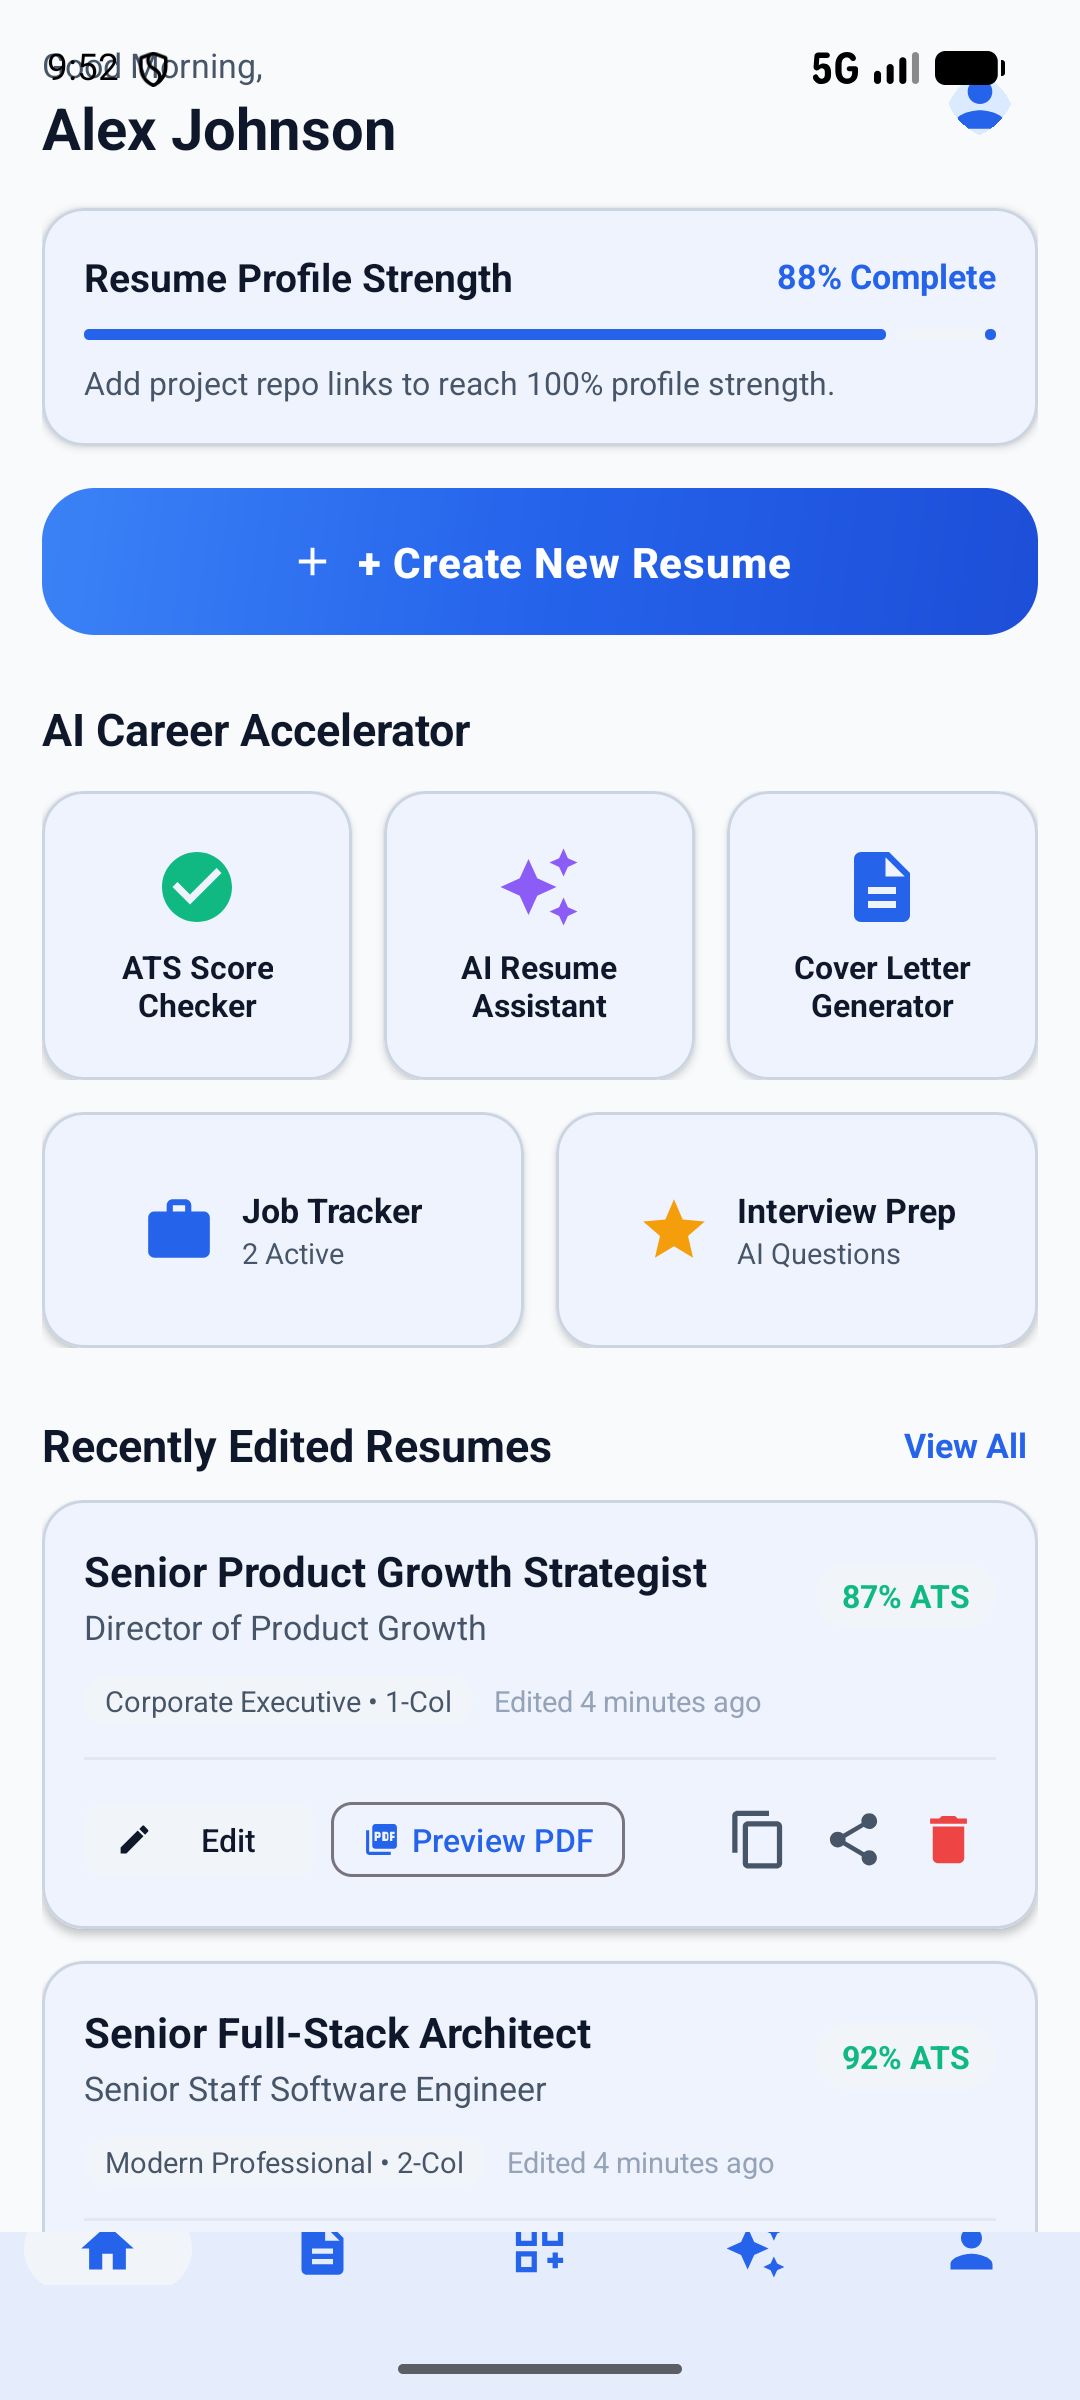
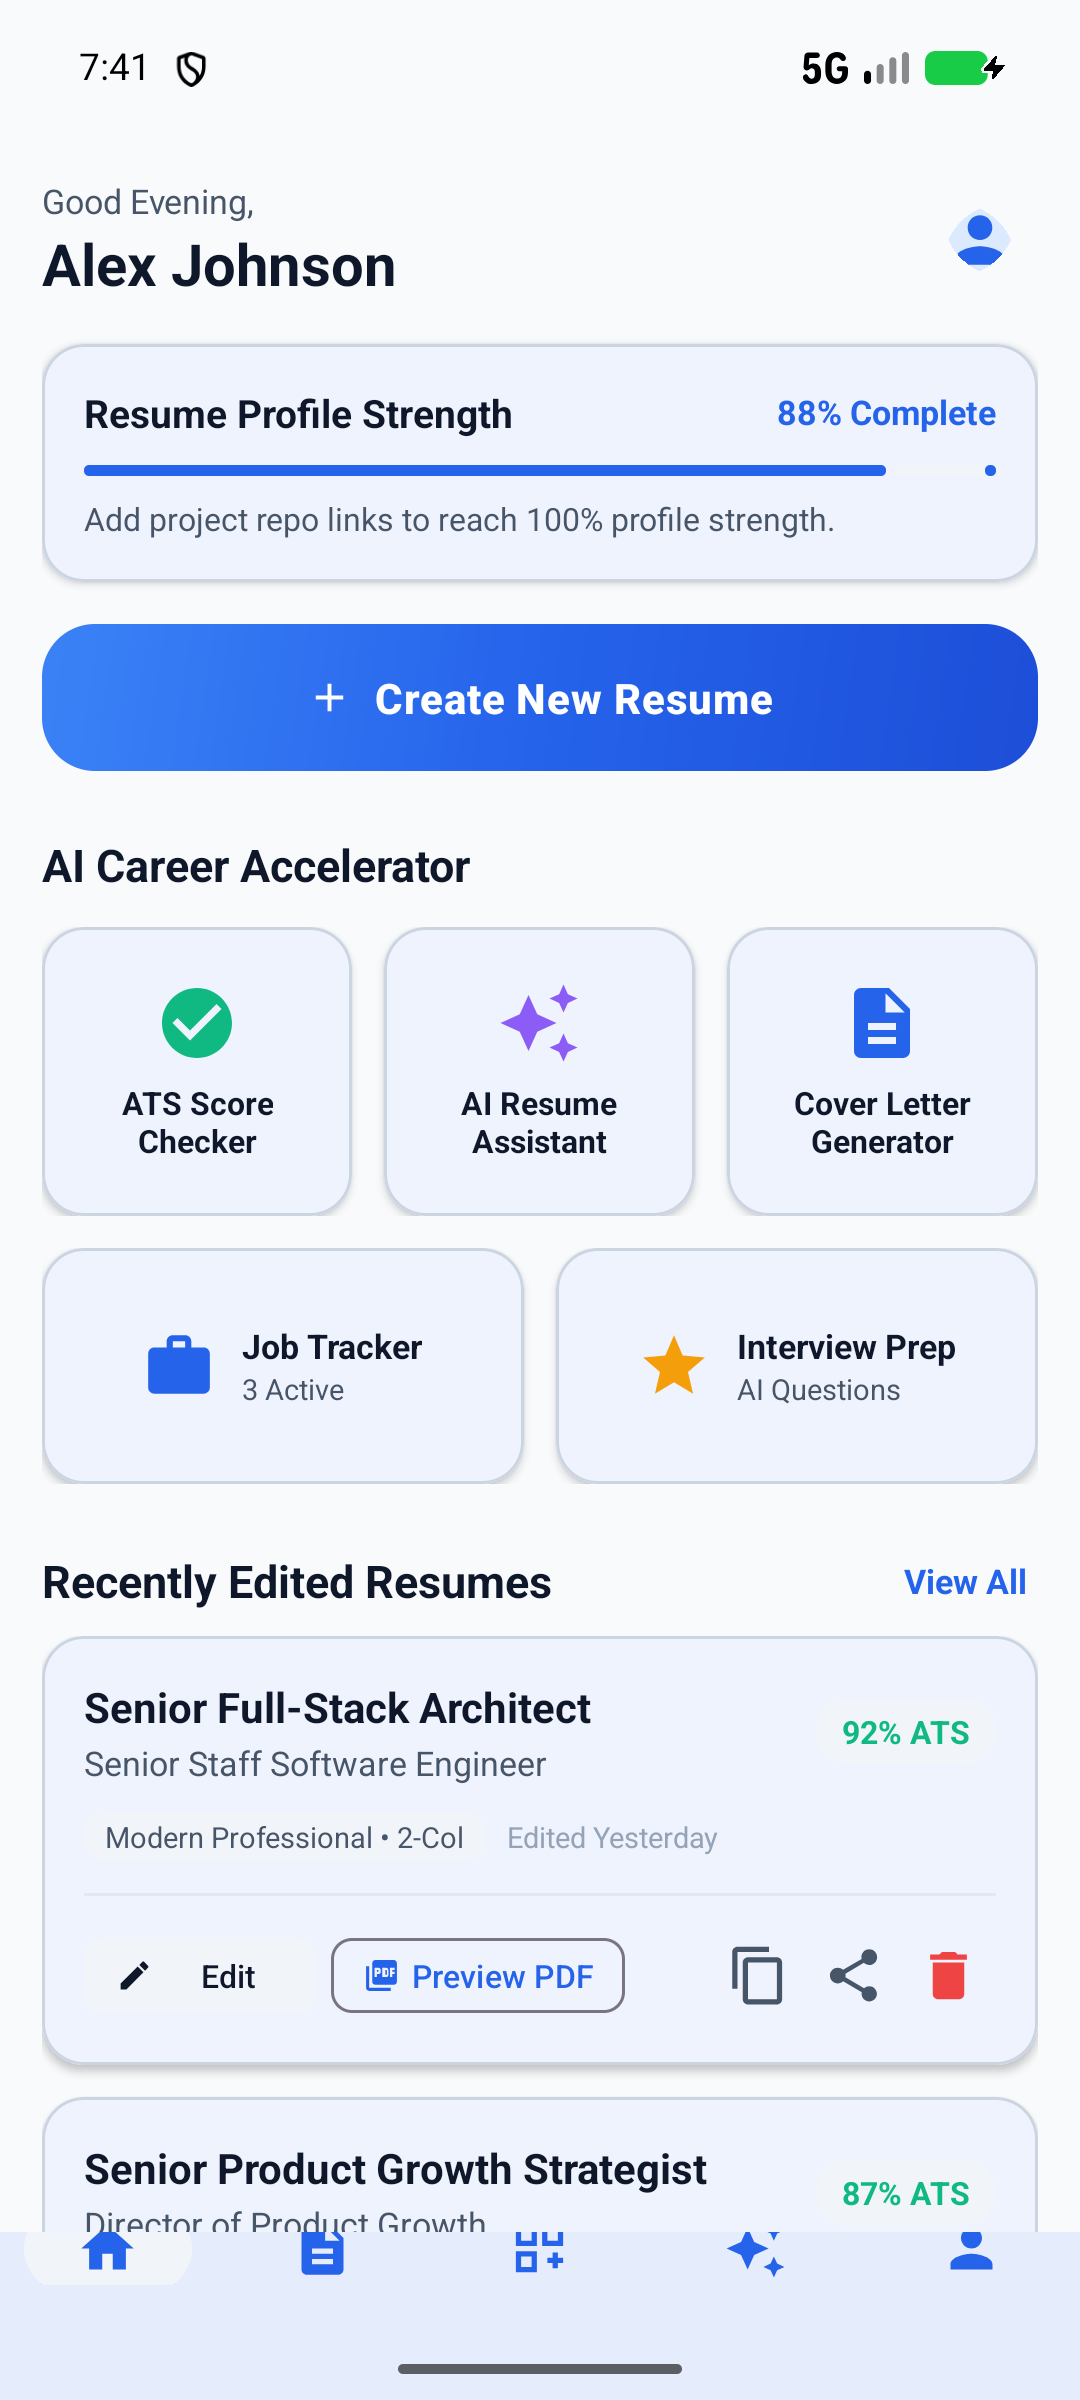
fix: resolve ATS analyzer infinite toast loop and system bar insets overlap

diff --git a/app/src/main/java/com/pynexia/resumebuilder/ui/ats/AtsAnalyzerActivity.kt b/app/src/main/java/com/pynexia/resumebuilder/ui/ats/AtsAnalyzerActivity.kt
@@ -19,6 +19,7 @@ import com.pynexia.resumebuilder.data.model.ResumeData
 import com.pynexia.resumebuilder.data.model.ResumeEntity
 import com.pynexia.resumebuilder.databinding.ActivityAtsAnalyzerBinding
 import com.pynexia.resumebuilder.ui.resumes.ResumeViewModel
+import com.pynexia.resumebuilder.utils.applySystemBarsPadding
 import kotlinx.coroutines.launch
 
 class AtsAnalyzerActivity : AppCompatActivity() {
@@ -30,11 +31,14 @@ class AtsAnalyzerActivity : AppCompatActivity() {
 
     private var resumeList: List<ResumeEntity> = emptyList()
     private var selectedResume: ResumeEntity? = null
+    private var isInitialized = false
 
     override fun onCreate(savedInstanceState: Bundle?) {
         super.onCreate(savedInstanceState)
         binding = ActivityAtsAnalyzerBinding.inflate(layoutInflater)
         setContentView(binding.root)
+
+        binding.root.applySystemBarsPadding(applyTop = true, applyBottom = true)
 
         binding.toolbarAts.setNavigationOnClickListener { finish() }
 
@@ -44,42 +48,54 @@ class AtsAnalyzerActivity : AppCompatActivity() {
 
     private fun loadResumes() {
         viewModel.allActiveResumes.observe(this) { list ->
+            if (list.isEmpty()) return@observe
+            val listChanged = resumeList.map { it.id } != list.map { it.id }
             resumeList = list
-            if (list.isNotEmpty()) {
+
+            if (!isInitialized || listChanged) {
+                isInitialized = true
                 val titles = list.map { "${it.title} (${it.targetJobTitle})" }
                 val spinnerAdapter = ArrayAdapter(this, android.R.layout.simple_spinner_dropdown_item, titles)
                 binding.spinnerResumes.adapter = spinnerAdapter
                 selectedResume = list[0]
 
-                binding.spinnerResumes.onItemSelectedListener = object : AdapterView.OnItemSelectedListener {
-                    override fun onItemSelected(parent: AdapterView<*>?, view: View?, position: Int, id: Long) {
-                        selectedResume = list[position]
-                    }
-                    override fun onNothingSelected(parent: AdapterView<*>?) {}
-                }
-
-                // Automatically run analysis on first resume
-                runAnalysis()
+                // Run initial analysis without triggering DB update recursion
+                runAnalysis(saveToDb = false)
             }
         }
     }
 
     private fun setupListeners() {
+        binding.spinnerResumes.onItemSelectedListener = object : AdapterView.OnItemSelectedListener {
+            override fun onItemSelected(parent: AdapterView<*>?, view: View?, position: Int, id: Long) {
+                if (position in resumeList.indices) {
+                    val candidate = resumeList[position]
+                    if (selectedResume?.id != candidate.id) {
+                        selectedResume = candidate
+                        runAnalysis(saveToDb = false)
+                    }
+                }
+            }
+            override fun onNothingSelected(parent: AdapterView<*>?) {}
+        }
+
         binding.btnRunAtsAnalysis.setOnClickListener {
-            runAnalysis()
+            runAnalysis(saveToDb = true)
         }
     }
 
-    private fun runAnalysis() {
+    private fun runAnalysis(saveToDb: Boolean = false) {
         val entity = selectedResume ?: return
         val resumeData = ResumeData.fromEntity(entity, gson)
         val jdText = binding.etJobDescription.text?.toString().orEmpty()
 
         val result = analyzer.analyze(resumeData, jdText)
 
-        // Update score in DB
-        entity.lastAtsScore = result.overallScore
-        viewModel.updateResume(entity)
+        // Update score in DB only when explicitly requested and changed
+        if (saveToDb && entity.lastAtsScore != result.overallScore) {
+            entity.lastAtsScore = result.overallScore
+            viewModel.updateResume(entity)
+        }
 
         // Display results
         binding.cardAtsResults.visibility = View.VISIBLE
@@ -145,6 +161,8 @@ class AtsAnalyzerActivity : AppCompatActivity() {
             binding.layoutRecommendationsContainer.addView(recView)
         }
 
-        Toast.makeText(this, "ATS Score: ${result.overallScore}%", Toast.LENGTH_SHORT).show()
+        if (saveToDb) {
+            Toast.makeText(this, "Analysis updated (Score: ${result.overallScore}%)", Toast.LENGTH_SHORT).show()
+        }
     }
 }

diff --git a/app/src/main/java/com/pynexia/resumebuilder/ui/aitools/InterviewPrepActivity.kt b/app/src/main/java/com/pynexia/resumebuilder/ui/aitools/InterviewPrepActivity.kt
@@ -12,6 +12,7 @@ import com.pynexia.resumebuilder.data.model.ResumeData
 import com.pynexia.resumebuilder.data.model.ResumeEntity
 import com.pynexia.resumebuilder.databinding.ActivityInterviewPrepBinding
 import com.pynexia.resumebuilder.ui.resumes.ResumeViewModel
+import com.pynexia.resumebuilder.utils.applySystemBarsPadding
 
 class InterviewPrepActivity : AppCompatActivity() {
 
@@ -28,13 +29,15 @@ class InterviewPrepActivity : AppCompatActivity() {
         binding = ActivityInterviewPrepBinding.inflate(layoutInflater)
         setContentView(binding.root)
 
+        binding.root.applySystemBarsPadding(applyTop = true, applyBottom = true)
+
         binding.toolbarInterview.setNavigationOnClickListener { finish() }
 
         setupRecyclerView()
         loadResumes()
 
         binding.btnGenerateInterviewQuestions.setOnClickListener {
-            generateQuestions()
+            generateQuestions(showToast = true)
         }
     }
 
@@ -53,19 +56,21 @@ class InterviewPrepActivity : AppCompatActivity() {
                 val titles = list.map { "${it.title} (${it.targetJobTitle})" }
                 val spinnerAdapter = ArrayAdapter(this, android.R.layout.simple_spinner_dropdown_item, titles)
                 binding.spinnerInterviewResume.adapter = spinnerAdapter
-                generateQuestions()
+                generateQuestions(showToast = false)
             }
         }
     }
 
-    private fun generateQuestions() {
+    private fun generateQuestions(showToast: Boolean = true) {
         val selectedIndex = binding.spinnerInterviewResume.selectedItemPosition.coerceAtLeast(0)
         if (selectedIndex in resumeList.indices) {
             val entity = resumeList[selectedIndex]
             val data = ResumeData.fromEntity(entity, gson)
             val questions = prepEngine.generateQuestions(data)
             adapter.submitList(questions)
-            Toast.makeText(this, "Generated ${questions.size} tailored questions!", Toast.LENGTH_SHORT).show()
+            if (showToast) {
+                Toast.makeText(this, "Generated ${questions.size} tailored questions!", Toast.LENGTH_SHORT).show()
+            }
         }
     }
 }

diff --git a/app/src/main/java/com/pynexia/resumebuilder/utils/ViewExtensions.kt b/app/src/main/java/com/pynexia/resumebuilder/utils/ViewExtensions.kt
@@ -1,0 +1,36 @@
+package com.pynexia.resumebuilder.utils
+
+import android.view.View
+import androidx.core.view.ViewCompat
+import androidx.core.view.WindowInsetsCompat
+import androidx.core.view.updatePadding
+
+/**
+ * Extension to apply window insets (status bar and navigation bar) as view padding
+ * to prevent content from drawing underneath system bars or notches on Android 15+.
+ */
+fun View.applySystemBarsPadding(applyTop: Boolean = true, applyBottom: Boolean = false) {
+    val initialPaddingTop = paddingTop
+    val initialPaddingBottom = paddingBottom
+
+    ViewCompat.setOnApplyWindowInsetsListener(this) { v, insets ->
+        val systemBars = insets.getInsets(WindowInsetsCompat.Type.systemBars())
+        v.updatePadding(
+            top = if (applyTop) initialPaddingTop + systemBars.top else v.paddingTop,
+            bottom = if (applyBottom) initialPaddingBottom + systemBars.bottom else v.paddingBottom
+        )
+        insets
+    }
+
+    if (isAttachedToWindow) {
+        ViewCompat.requestApplyInsets(this)
+    } else {
+        addOnAttachStateChangeListener(object : View.OnAttachStateChangeListener {
+            override fun onViewAttachedToWindow(v: View) {
+                v.removeOnAttachStateChangeListener(this)
+                ViewCompat.requestApplyInsets(v)
+            }
+            override fun onViewDetachedFromWindow(v: View) {}
+        })
+    }
+}

diff --git a/app/src/main/java/com/pynexia/resumebuilder/ui/coverletter/CoverLetterEditorActivity.kt b/app/src/main/java/com/pynexia/resumebuilder/ui/coverletter/CoverLetterEditorActivity.kt
@@ -9,6 +9,7 @@ import com.pynexia.resumebuilder.CareerForgeApp
 import com.pynexia.resumebuilder.ai.AiResumeAssistant
 import com.pynexia.resumebuilder.data.model.CoverLetterEntity
 import com.pynexia.resumebuilder.databinding.ActivityCoverLetterEditorBinding
+import com.pynexia.resumebuilder.utils.applySystemBarsPadding
 import kotlinx.coroutines.launch
 
 class CoverLetterEditorActivity : AppCompatActivity() {
@@ -23,6 +24,8 @@ class CoverLetterEditorActivity : AppCompatActivity() {
         super.onCreate(savedInstanceState)
         binding = ActivityCoverLetterEditorBinding.inflate(layoutInflater)
         setContentView(binding.root)
+
+        binding.root.applySystemBarsPadding(applyTop = true, applyBottom = true)
 
         aiAssistant = AiResumeAssistant(this)
         coverLetterId = intent.getLongExtra(EXTRA_CL_ID, 0L)

diff --git a/app/src/main/java/com/pynexia/resumebuilder/ui/editor/ResumeEditorActivity.kt b/app/src/main/java/com/pynexia/resumebuilder/ui/editor/ResumeEditorActivity.kt
@@ -37,6 +37,7 @@ import com.pynexia.resumebuilder.databinding.StepSummaryBinding
 import com.pynexia.resumebuilder.pdf.TemplateRegistry
 import com.pynexia.resumebuilder.ui.preview.ResumePreviewActivity
 import com.pynexia.resumebuilder.ui.resumes.ResumeViewModel
+import com.pynexia.resumebuilder.utils.applySystemBarsPadding
 import kotlinx.coroutines.Job
 import kotlinx.coroutines.delay
 import kotlinx.coroutines.launch
@@ -74,6 +75,8 @@ class ResumeEditorActivity : AppCompatActivity() {
         super.onCreate(savedInstanceState)
         binding = ActivityResumeEditorBinding.inflate(layoutInflater)
         setContentView(binding.root)
+
+        binding.root.applySystemBarsPadding(applyTop = true, applyBottom = true)
 
         aiAssistant = AiResumeAssistant(this)
         resumeId = intent.getLongExtra(EXTRA_RESUME_ID, 0L)

diff --git a/app/src/main/java/com/pynexia/resumebuilder/ui/jobs/JobApplicationsActivity.kt b/app/src/main/java/com/pynexia/resumebuilder/ui/jobs/JobApplicationsActivity.kt
@@ -10,6 +10,7 @@ import com.google.android.material.textfield.TextInputEditText
 import com.pynexia.resumebuilder.CareerForgeApp
 import com.pynexia.resumebuilder.data.model.JobApplicationEntity
 import com.pynexia.resumebuilder.databinding.ActivityJobApplicationsBinding
+import com.pynexia.resumebuilder.utils.applySystemBarsPadding
 import kotlinx.coroutines.launch
 
 class JobApplicationsActivity : AppCompatActivity() {
@@ -23,6 +24,8 @@ class JobApplicationsActivity : AppCompatActivity() {
         super.onCreate(savedInstanceState)
         binding = ActivityJobApplicationsBinding.inflate(layoutInflater)
         setContentView(binding.root)
+
+        binding.root.applySystemBarsPadding(applyTop = true, applyBottom = true)
 
         binding.toolbarJobs.setNavigationOnClickListener { finish() }
 

diff --git a/app/src/main/java/com/pynexia/resumebuilder/ui/coverletter/CoverLetterActivity.kt b/app/src/main/java/com/pynexia/resumebuilder/ui/coverletter/CoverLetterActivity.kt
@@ -11,6 +11,7 @@ import com.google.android.material.textfield.TextInputEditText
 import com.pynexia.resumebuilder.CareerForgeApp
 import com.pynexia.resumebuilder.data.model.CoverLetterEntity
 import com.pynexia.resumebuilder.databinding.ActivityCoverLetterBinding
+import com.pynexia.resumebuilder.utils.applySystemBarsPadding
 import kotlinx.coroutines.launch
 
 class CoverLetterActivity : AppCompatActivity() {
@@ -23,6 +24,8 @@ class CoverLetterActivity : AppCompatActivity() {
         super.onCreate(savedInstanceState)
         binding = ActivityCoverLetterBinding.inflate(layoutInflater)
         setContentView(binding.root)
+
+        binding.root.applySystemBarsPadding(applyTop = true, applyBottom = true)
 
         binding.toolbarCoverLetter.setNavigationOnClickListener { finish() }
 

diff --git a/app/src/main/java/com/pynexia/resumebuilder/ui/preview/ResumePreviewActivity.kt b/app/src/main/java/com/pynexia/resumebuilder/ui/preview/ResumePreviewActivity.kt
@@ -18,6 +18,7 @@ import com.pynexia.resumebuilder.pdf.PdfPreviewManager
 import com.pynexia.resumebuilder.pdf.TemplateRegistry
 import com.pynexia.resumebuilder.ui.editor.ResumeEditorActivity
 import com.pynexia.resumebuilder.ui.resumes.ResumeViewModel
+import com.pynexia.resumebuilder.utils.applySystemBarsPadding
 import kotlinx.coroutines.Dispatchers
 import kotlinx.coroutines.launch
 import kotlinx.coroutines.withContext
@@ -40,6 +41,8 @@ class ResumePreviewActivity : AppCompatActivity() {
         super.onCreate(savedInstanceState)
         binding = ActivityResumePreviewBinding.inflate(layoutInflater)
         setContentView(binding.root)
+
+        binding.root.applySystemBarsPadding(applyTop = true, applyBottom = true)
 
         resumeId = intent.getLongExtra(EXTRA_RESUME_ID, 0L)
 

diff --git a/app/src/main/java/com/pynexia/resumebuilder/ui/aitools/ResumeComparisonActivity.kt b/app/src/main/java/com/pynexia/resumebuilder/ui/aitools/ResumeComparisonActivity.kt
@@ -11,6 +11,7 @@ import com.pynexia.resumebuilder.data.model.ResumeData
 import com.pynexia.resumebuilder.data.model.ResumeEntity
 import com.pynexia.resumebuilder.databinding.ActivityResumeComparisonBinding
 import com.pynexia.resumebuilder.ui.resumes.ResumeViewModel
+import com.pynexia.resumebuilder.utils.applySystemBarsPadding
 
 class ResumeComparisonActivity : AppCompatActivity() {
 
@@ -26,6 +27,8 @@ class ResumeComparisonActivity : AppCompatActivity() {
         super.onCreate(savedInstanceState)
         binding = ActivityResumeComparisonBinding.inflate(layoutInflater)
         setContentView(binding.root)
+
+        binding.root.applySystemBarsPadding(applyTop = true, applyBottom = true)
 
         binding.toolbarCompare.setNavigationOnClickListener { finish() }
 

diff --git a/app/src/main/java/com/pynexia/resumebuilder/ui/MainActivity.kt b/app/src/main/java/com/pynexia/resumebuilder/ui/MainActivity.kt
@@ -10,6 +10,7 @@ import com.pynexia.resumebuilder.ui.home.HomeFragment
 import com.pynexia.resumebuilder.ui.profile.ProfileFragment
 import com.pynexia.resumebuilder.ui.resumes.MyResumesFragment
 import com.pynexia.resumebuilder.ui.templates.TemplatesFragment
+import com.pynexia.resumebuilder.utils.applySystemBarsPadding
 
 class MainActivity : AppCompatActivity() {
 
@@ -25,6 +26,8 @@ class MainActivity : AppCompatActivity() {
         super.onCreate(savedInstanceState)
         binding = ActivityMainBinding.inflate(layoutInflater)
         setContentView(binding.root)
+
+        binding.navHostFragment.applySystemBarsPadding(applyTop = true, applyBottom = false)
 
         if (savedInstanceState == null) {
             loadFragment(homeFragment)

diff --git a/app/src/main/java/com/pynexia/resumebuilder/ui/settings/SettingsActivity.kt b/app/src/main/java/com/pynexia/resumebuilder/ui/settings/SettingsActivity.kt
@@ -6,6 +6,7 @@ import androidx.appcompat.app.AppCompatActivity
 import androidx.appcompat.app.AppCompatDelegate
 import com.pynexia.resumebuilder.CareerForgeApp
 import com.pynexia.resumebuilder.databinding.ActivitySettingsBinding
+import com.pynexia.resumebuilder.utils.applySystemBarsPadding
 
 class SettingsActivity : AppCompatActivity() {
 
@@ -16,6 +17,8 @@ class SettingsActivity : AppCompatActivity() {
         super.onCreate(savedInstanceState)
         binding = ActivitySettingsBinding.inflate(layoutInflater)
         setContentView(binding.root)
+
+        binding.root.applySystemBarsPadding(applyTop = true, applyBottom = true)
 
         binding.toolbarSettings.setNavigationOnClickListener { finish() }
 
